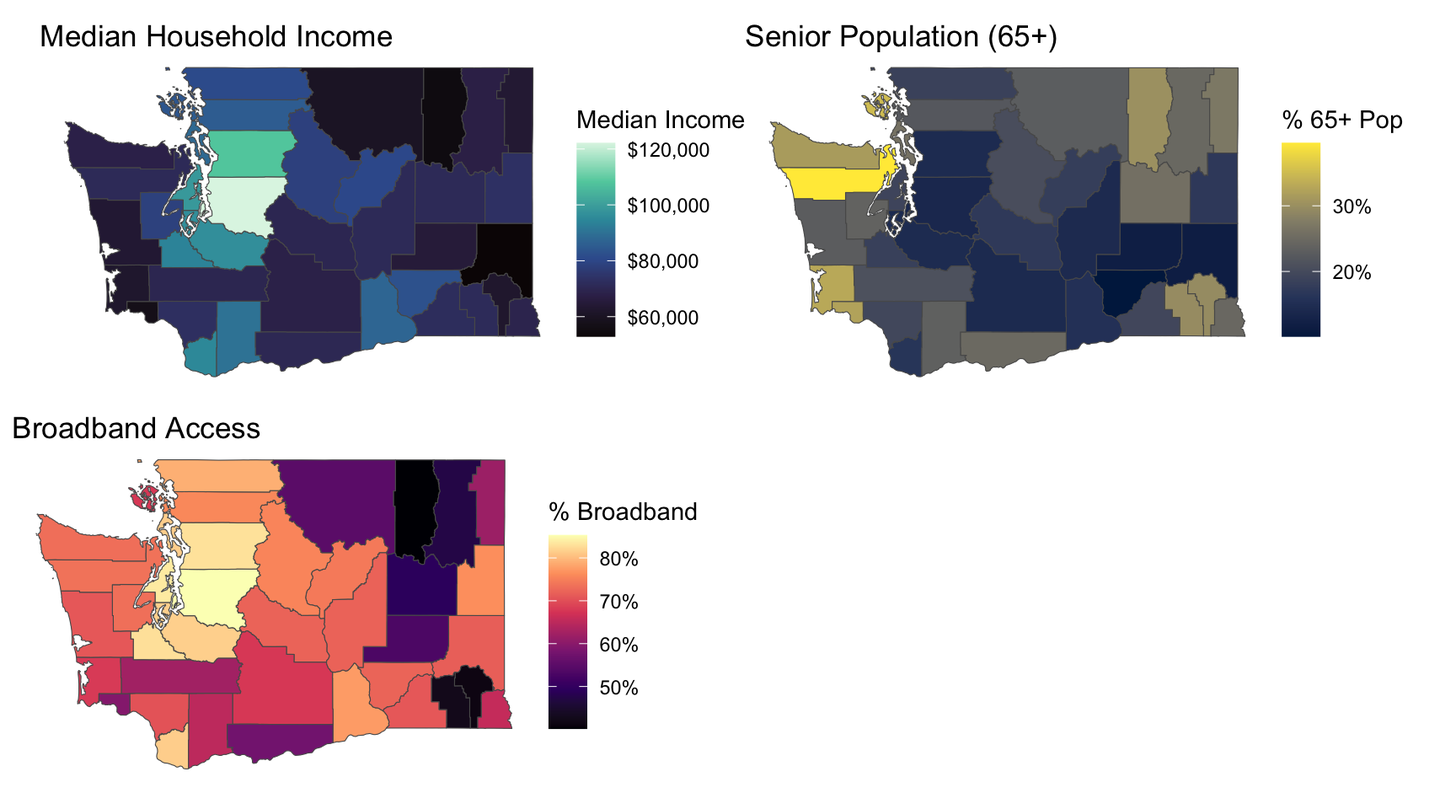
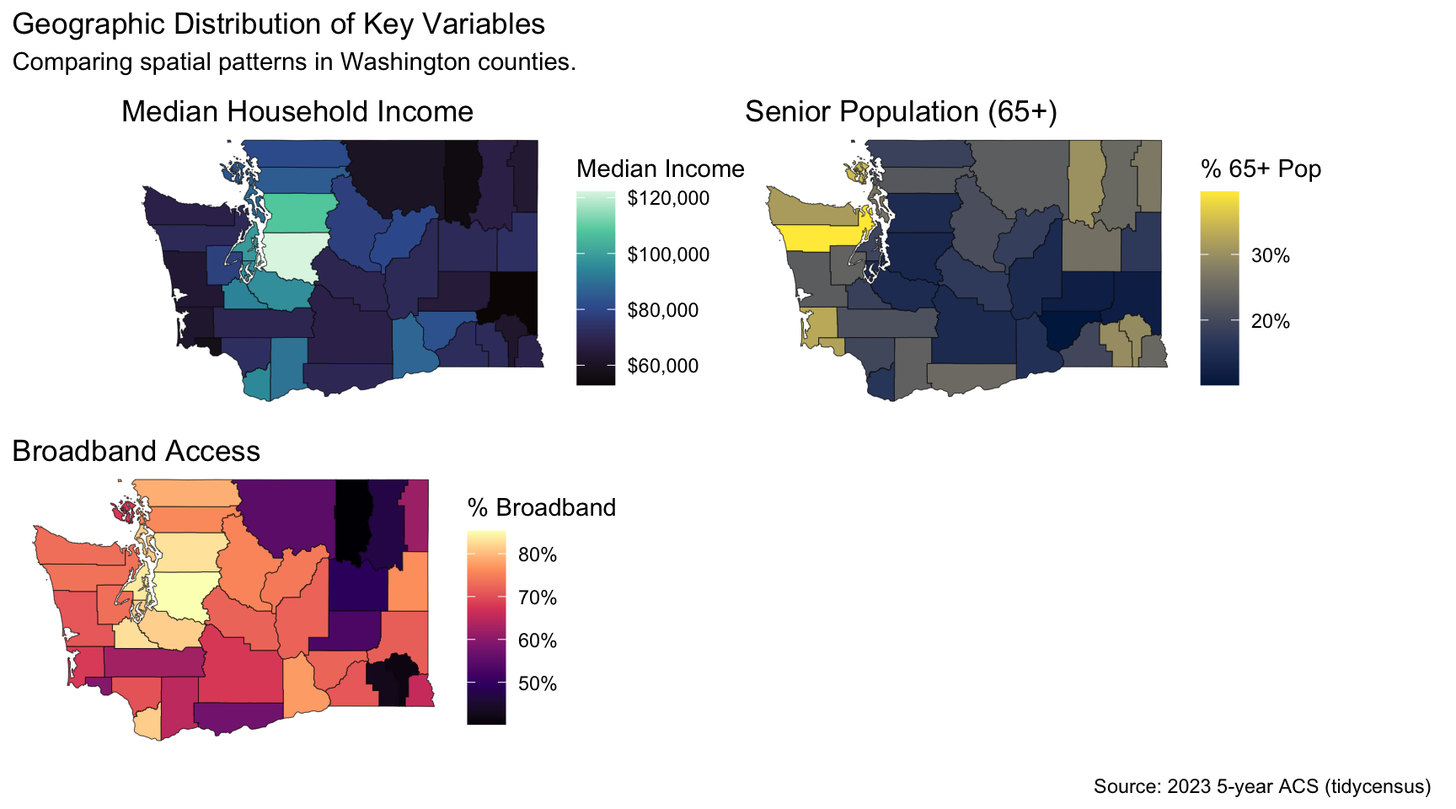
Update to analysis (both parts)

diff --git a/Project2.html b/Project2.html
@@ -6,8 +6,9 @@
 
 <meta name="viewport" content="width=device-width, initial-scale=1.0, user-scalable=yes">
 
+<meta name="author" content="Oliver Brown">
 
-<title>Project2</title>
+<title>Statistical Programming Paradigms: Project 2</title>
 <style>
 code{white-space: pre-wrap;}
 span.smallcaps{font-variant: small-caps;}
@@ -82,13 +83,20 @@ pre > code.sourceCode > span > a:first-child::before { text-decoration: underlin
 
 <header id="title-block-header" class="quarto-title-block default">
 <div class="quarto-title">
-<h1 class="title">Project2</h1>
+<h1 class="title">Statistical Programming Paradigms: Project 2</h1>
+<p class="subtitle lead">View the <a href="https://github.com/OliverBrown16/Biostat777-Project2">Project Repo</a></p>
 </div>
 
 
 
 <div class="quarto-title-meta">
 
+    <div>
+    <div class="quarto-title-meta-heading">Author</div>
+    <div class="quarto-title-meta-contents">
+             <p>Oliver Brown </p>
+          </div>
+  </div>
     
   
     
@@ -111,6 +119,10 @@ pre > code.sourceCode > span > a:first-child::before { text-decoration: underlin
 <li><p>A pair of side by side boxplots. This will involve binning counties into quartiles (Lowest to Highest) based on their median income and senior population. This plot will help compare the median and distribution of broadband access across these distinct groups, showing how moving from the lowest to highest group for each variable impacts access.</p></li>
 <li><p>A set of three maps to visualize the geographic distribution of each key variable (broadband access, senior population, and median income) side-by-side. This will help identify if the spatial pattern of broadband access more closely matches the pattern of income or age.</p></li>
 </ol>
+</section>
+<section id="data-extraction-and-cleaning" class="level2">
+<h2 class="anchored" data-anchor-id="data-extraction-and-cleaning">Data Extraction and Cleaning</h2>
+<p>The analysis is set to run for Washington State using data from the 2023 5-year American Community Survey (ACS), since this is the most recent available data.</p>
 <div class="cell">
 <div class="code-copy-outer-scaffold"><div class="sourceCode cell-code" id="cb1"><pre class="sourceCode r code-with-copy"><code class="sourceCode r"><span id="cb1-1"><a href="#cb1-1" aria-hidden="true" tabindex="-1"></a>state_abbr <span class="ot">&lt;-</span> <span class="st">"WA"</span></span>
 <span id="cb1-2"><a href="#cb1-2" aria-hidden="true" tabindex="-1"></a>target_year <span class="ot">&lt;-</span> <span class="dv">2023</span></span>
@@ -161,7 +173,7 @@ Geodetic CRS:  NAD83
 6 MULTIPOLYGON (((-123.371 46...</code></pre>
 </div>
 </div>
-<p>To get the total 65+ population, <strong>purrr::map_chr()</strong> is used to programmatically generate the list of all male and female senior age bracket variable IDs. The data is then saved locally as an .rds file to avoid repeat API calls.</p>
+<p>To get the total 65+ population, <strong>map_chr()</strong> is used to programmatically generate the list of all male and female senior age bracket variable IDs. The data is then saved locally as an .rds file to avoid repeat API calls.</p>
 <div class="cell">
 <div class="code-copy-outer-scaffold"><div class="sourceCode cell-code" id="cb4"><pre class="sourceCode r code-with-copy"><code class="sourceCode r"><span id="cb4-1"><a href="#cb4-1" aria-hidden="true" tabindex="-1"></a>age_vars_65plus_male <span class="ot">&lt;-</span> <span class="fu">map_chr</span>(<span class="dv">20</span><span class="sc">:</span><span class="dv">25</span>, <span class="sc">~</span> <span class="fu">paste0</span>(<span class="st">"B01001_0"</span>, .x))</span>
 <span id="cb4-2"><a href="#cb4-2" aria-hidden="true" tabindex="-1"></a>age_vars_65plus_female <span class="ot">&lt;-</span> <span class="fu">map_chr</span>(<span class="dv">44</span><span class="sc">:</span><span class="dv">49</span>, <span class="sc">~</span> <span class="fu">paste0</span>(<span class="st">"B01001_0"</span>, .x))</span>
@@ -235,7 +247,7 @@ Geodetic CRS:  NAD83
 6 53011 Clark County, Washington   median_income    94948  1484</code></pre>
 </div>
 </div>
-<p>We then clean and merge the three raw datasets. The internet data is pivoted wide, the age data is summarized to sum all 65+ brackets, and percentages are calculated for both. Finally, the three clean data frames are put into a list and joined together using <strong>purrr::reduce()</strong>.</p>
+<p>We then clean and merge the three raw datasets. The internet data is pivoted wide, the age data is summarized to sum all 65+ brackets, and percentages are calculated for both. Finally, the three clean data frames are put into a list and joined together using <strong>reduce()</strong>.</p>
 <div class="cell">
 <div class="code-copy-outer-scaffold"><div class="sourceCode cell-code" id="cb8"><pre class="sourceCode r code-with-copy"><code class="sourceCode r"><span id="cb8-1"><a href="#cb8-1" aria-hidden="true" tabindex="-1"></a>wa_internet_clean <span class="ot">&lt;-</span> wa_internet_raw <span class="sc">%&gt;%</span></span>
 <span id="cb8-2"><a href="#cb8-2" aria-hidden="true" tabindex="-1"></a>  <span class="fu">select</span>(GEOID, NAME, variable, estimate, geometry) <span class="sc">%&gt;%</span></span>
@@ -271,6 +283,9 @@ Geodetic CRS:  NAD83
 <span id="cb8-32"><a href="#cb8-32" aria-hidden="true" tabindex="-1"></a></span>
 <span id="cb8-33"><a href="#cb8-33" aria-hidden="true" tabindex="-1"></a><span class="fu">head</span>(final_data)</span></code></pre></div><button title="Copy to Clipboard" class="code-copy-button"><i class="bi"></i></button></div>
 </div>
+</section>
+<section id="visualizations" class="level2">
+<h2 class="anchored" data-anchor-id="visualizations">Visualizations:</h2>
 <section id="visualization-1-side-by-side-scatter-plots" class="level3">
 <h3 class="anchored" data-anchor-id="visualization-1-side-by-side-scatter-plots">Visualization 1: Side-by-Side Scatter Plots</h3>
 <div class="cell">
@@ -302,7 +317,7 @@ Geodetic CRS:  NAD83
 <span id="cb9-26"><a href="#cb9-26" aria-hidden="true" tabindex="-1"></a>  ) <span class="sc">+</span></span>
 <span id="cb9-27"><a href="#cb9-27" aria-hidden="true" tabindex="-1"></a>  <span class="fu">theme_minimal</span>()</span>
 <span id="cb9-28"><a href="#cb9-28" aria-hidden="true" tabindex="-1"></a></span>
-<span id="cb9-29"><a href="#cb9-29" aria-hidden="true" tabindex="-1"></a>plot_income <span class="sc">+</span> plot_age</span></code></pre></div><button title="Copy to Clipboard" class="code-copy-button"><i class="bi"></i></button></div>
+<span id="cb9-29"><a href="#cb9-29" aria-hidden="true" tabindex="-1"></a>(plot_income <span class="sc">+</span> plot_age) <span class="sc">+</span> <span class="fu">plot_annotation</span>(<span class="at">caption =</span> <span class="st">"Source: 2023 5-year ACS (tidycensus)"</span>)</span></code></pre></div><button title="Copy to Clipboard" class="code-copy-button"><i class="bi"></i></button></div>
 <div class="cell-output-display">
 <div>
 <figure class="figure">
@@ -330,23 +345,25 @@ Geodetic CRS:  NAD83
 <span id="cb10-12"><a href="#cb10-12" aria-hidden="true" tabindex="-1"></a>  <span class="fu">scale_y_continuous</span>(<span class="at">labels =</span> scales<span class="sc">::</span><span class="fu">percent_format</span>()) <span class="sc">+</span></span>
 <span id="cb10-13"><a href="#cb10-13" aria-hidden="true" tabindex="-1"></a>  <span class="fu">labs</span>(</span>
 <span id="cb10-14"><a href="#cb10-14" aria-hidden="true" tabindex="-1"></a>    <span class="at">title =</span> <span class="st">"Broadband Access by Income Quartile"</span>,</span>
-<span id="cb10-15"><a href="#cb10-15" aria-hidden="true" tabindex="-1"></a>    <span class="at">x =</span> <span class="st">"Median Income Quartile"</span>,</span>
-<span id="cb10-16"><a href="#cb10-16" aria-hidden="true" tabindex="-1"></a>    <span class="at">y =</span> <span class="st">"Percent with Broadband"</span></span>
-<span id="cb10-17"><a href="#cb10-17" aria-hidden="true" tabindex="-1"></a>  ) <span class="sc">+</span></span>
-<span id="cb10-18"><a href="#cb10-18" aria-hidden="true" tabindex="-1"></a>  <span class="fu">theme_minimal</span>()</span>
-<span id="cb10-19"><a href="#cb10-19" aria-hidden="true" tabindex="-1"></a></span>
-<span id="cb10-20"><a href="#cb10-20" aria-hidden="true" tabindex="-1"></a>plot_box_age <span class="ot">&lt;-</span> <span class="fu">ggplot</span>(data_with_bins, <span class="fu">aes</span>(<span class="at">x =</span> age_quartile, <span class="at">y =</span> pct_broadband)) <span class="sc">+</span></span>
-<span id="cb10-21"><a href="#cb10-21" aria-hidden="true" tabindex="-1"></a>  <span class="fu">geom_boxplot</span>(<span class="fu">aes</span>(<span class="at">fill =</span> age_quartile), <span class="at">show.legend =</span> <span class="cn">FALSE</span>) <span class="sc">+</span></span>
-<span id="cb10-22"><a href="#cb10-22" aria-hidden="true" tabindex="-1"></a>  <span class="fu">geom_point</span>(<span class="at">alpha =</span> <span class="fl">0.4</span>) <span class="sc">+</span> </span>
-<span id="cb10-23"><a href="#cb10-23" aria-hidden="true" tabindex="-1"></a>  <span class="fu">scale_y_continuous</span>(<span class="at">labels =</span> scales<span class="sc">::</span><span class="fu">percent_format</span>()) <span class="sc">+</span></span>
-<span id="cb10-24"><a href="#cb10-24" aria-hidden="true" tabindex="-1"></a>  <span class="fu">labs</span>(</span>
-<span id="cb10-25"><a href="#cb10-25" aria-hidden="true" tabindex="-1"></a>    <span class="at">title =</span> <span class="st">"Broadband Access by Senior (65+) Pop. Quartile"</span>,</span>
-<span id="cb10-26"><a href="#cb10-26" aria-hidden="true" tabindex="-1"></a>    <span class="at">x =</span> <span class="st">"Senior Population Quartile"</span>,</span>
-<span id="cb10-27"><a href="#cb10-27" aria-hidden="true" tabindex="-1"></a>    <span class="at">y =</span> <span class="st">""</span></span>
-<span id="cb10-28"><a href="#cb10-28" aria-hidden="true" tabindex="-1"></a>  ) <span class="sc">+</span></span>
-<span id="cb10-29"><a href="#cb10-29" aria-hidden="true" tabindex="-1"></a>  <span class="fu">theme_minimal</span>()</span>
-<span id="cb10-30"><a href="#cb10-30" aria-hidden="true" tabindex="-1"></a></span>
-<span id="cb10-31"><a href="#cb10-31" aria-hidden="true" tabindex="-1"></a>plot_box_income <span class="sc">+</span> plot_box_age</span></code></pre></div><button title="Copy to Clipboard" class="code-copy-button"><i class="bi"></i></button></div>
+<span id="cb10-15"><a href="#cb10-15" aria-hidden="true" tabindex="-1"></a>    <span class="at">subtitle =</span> <span class="st">"Counties grouped into four equal-sized bins"</span>,</span>
+<span id="cb10-16"><a href="#cb10-16" aria-hidden="true" tabindex="-1"></a>    <span class="at">x =</span> <span class="st">"Median Income Quartile"</span>,</span>
+<span id="cb10-17"><a href="#cb10-17" aria-hidden="true" tabindex="-1"></a>    <span class="at">y =</span> <span class="st">"Percent with Broadband"</span></span>
+<span id="cb10-18"><a href="#cb10-18" aria-hidden="true" tabindex="-1"></a>  ) <span class="sc">+</span></span>
+<span id="cb10-19"><a href="#cb10-19" aria-hidden="true" tabindex="-1"></a>  <span class="fu">theme_minimal</span>()</span>
+<span id="cb10-20"><a href="#cb10-20" aria-hidden="true" tabindex="-1"></a></span>
+<span id="cb10-21"><a href="#cb10-21" aria-hidden="true" tabindex="-1"></a>plot_box_age <span class="ot">&lt;-</span> <span class="fu">ggplot</span>(data_with_bins, <span class="fu">aes</span>(<span class="at">x =</span> age_quartile, <span class="at">y =</span> pct_broadband)) <span class="sc">+</span></span>
+<span id="cb10-22"><a href="#cb10-22" aria-hidden="true" tabindex="-1"></a>  <span class="fu">geom_boxplot</span>(<span class="fu">aes</span>(<span class="at">fill =</span> age_quartile), <span class="at">show.legend =</span> <span class="cn">FALSE</span>) <span class="sc">+</span></span>
+<span id="cb10-23"><a href="#cb10-23" aria-hidden="true" tabindex="-1"></a>  <span class="fu">geom_point</span>(<span class="at">alpha =</span> <span class="fl">0.4</span>) <span class="sc">+</span> </span>
+<span id="cb10-24"><a href="#cb10-24" aria-hidden="true" tabindex="-1"></a>  <span class="fu">scale_y_continuous</span>(<span class="at">labels =</span> scales<span class="sc">::</span><span class="fu">percent_format</span>()) <span class="sc">+</span></span>
+<span id="cb10-25"><a href="#cb10-25" aria-hidden="true" tabindex="-1"></a>  <span class="fu">labs</span>(</span>
+<span id="cb10-26"><a href="#cb10-26" aria-hidden="true" tabindex="-1"></a>    <span class="at">title =</span> <span class="st">"Broadband Access by Senior (65+) Pop. Quartile"</span>,</span>
+<span id="cb10-27"><a href="#cb10-27" aria-hidden="true" tabindex="-1"></a>    <span class="at">subtitle =</span> <span class="st">"Counties grouped into four equal-sized bins"</span>,</span>
+<span id="cb10-28"><a href="#cb10-28" aria-hidden="true" tabindex="-1"></a>    <span class="at">x =</span> <span class="st">"Senior Population Quartile"</span>,</span>
+<span id="cb10-29"><a href="#cb10-29" aria-hidden="true" tabindex="-1"></a>    <span class="at">y =</span> <span class="st">""</span></span>
+<span id="cb10-30"><a href="#cb10-30" aria-hidden="true" tabindex="-1"></a>  ) <span class="sc">+</span></span>
+<span id="cb10-31"><a href="#cb10-31" aria-hidden="true" tabindex="-1"></a>  <span class="fu">theme_minimal</span>()</span>
+<span id="cb10-32"><a href="#cb10-32" aria-hidden="true" tabindex="-1"></a></span>
+<span id="cb10-33"><a href="#cb10-33" aria-hidden="true" tabindex="-1"></a>(plot_box_income <span class="sc">+</span> plot_box_age) <span class="sc">+</span> <span class="fu">plot_annotation</span>(<span class="at">caption =</span> <span class="st">"Source: 2023 5-year ACS (tidycensus)"</span>)</span></code></pre></div><button title="Copy to Clipboard" class="code-copy-button"><i class="bi"></i></button></div>
 <div class="cell-output-display">
 <div>
 <figure class="figure">
@@ -378,7 +395,11 @@ Geodetic CRS:  NAD83
 <span id="cb11-16"><a href="#cb11-16" aria-hidden="true" tabindex="-1"></a>  <span class="fu">labs</span>(<span class="at">title =</span> <span class="st">"Median Household Income"</span>, <span class="at">fill =</span> <span class="st">"Median Income"</span>) <span class="sc">+</span></span>
 <span id="cb11-17"><a href="#cb11-17" aria-hidden="true" tabindex="-1"></a>  <span class="fu">theme_void</span>()</span>
 <span id="cb11-18"><a href="#cb11-18" aria-hidden="true" tabindex="-1"></a></span>
-<span id="cb11-19"><a href="#cb11-19" aria-hidden="true" tabindex="-1"></a>(map_income <span class="sc">+</span> map_65plus) <span class="sc">/</span> (map_broadband <span class="sc">+</span> <span class="fu">plot_spacer</span>())</span></code></pre></div><button title="Copy to Clipboard" class="code-copy-button"><i class="bi"></i></button></div>
+<span id="cb11-19"><a href="#cb11-19" aria-hidden="true" tabindex="-1"></a>(map_income <span class="sc">+</span> map_65plus) <span class="sc">/</span> (map_broadband <span class="sc">+</span> <span class="fu">plot_spacer</span>()) <span class="sc">+</span> </span>
+<span id="cb11-20"><a href="#cb11-20" aria-hidden="true" tabindex="-1"></a>  <span class="fu">plot_annotation</span>(</span>
+<span id="cb11-21"><a href="#cb11-21" aria-hidden="true" tabindex="-1"></a>    <span class="at">title =</span> <span class="st">"Geographic Distribution of Key Variables"</span>,</span>
+<span id="cb11-22"><a href="#cb11-22" aria-hidden="true" tabindex="-1"></a>    <span class="at">subtitle =</span> <span class="st">"Comparing spatial patterns in Washington counties."</span>,</span>
+<span id="cb11-23"><a href="#cb11-23" aria-hidden="true" tabindex="-1"></a>    <span class="at">caption =</span> <span class="st">"Source: 2023 5-year ACS (tidycensus)"</span>)</span></code></pre></div><button title="Copy to Clipboard" class="code-copy-button"><i class="bi"></i></button></div>
 <div class="cell-output-display">
 <div>
 <figure class="figure">
@@ -390,54 +411,61 @@ Geodetic CRS:  NAD83
 <p>This final visualization uses geom_sfto create three maps showing the geographic distribution of each key variable. One map is made for broadband access, one for median income, and one for the senior population.</p>
 </section>
 </section>
+<section id="analysis" class="level2">
+<h2 class="anchored" data-anchor-id="analysis">Analysis:</h2>
+<p>This analysis investigates if broadband access in Washington State counties is better explained by population age or affordability. Data was sourced from the U.S. Census Bureau’s 2023 5-year American Community Survey (ACS) via the tidycensus API. Data for median household income, total population, and population 65+ were extracted. These were processed to create three key variables: percentage of population 65+, median household income, and percentage of households with broadband. The variables were then joined and analyzed for correlation and geographic distribution.</p>
+<p>The analysis reveals that median household income is a significantly stronger predictor of broadband access than the county’s senior (65+) population. A strong, positive linear correlation exists between median income and broadband access rates. Conversely, the relationship between the senior population and broadband access was weaker and less conclusive. Geographic analysis confirmed this, as the spatial map of broadband access closely mirrored the map of median income, but not the map of the senior population.</p>
+<p>This analysis has several limitations. First, the county-level data is subject to the ecological fallacy, meaning results cannot be assumed to apply to individuals. Second, the analysis does not control for the key confounding variable of infrastructure availability. Physical infrastructure, which often correlates with income, was not included. Finally, the ACS data provides estimates, and the “broadband” variable lacks details on connection speed or quality.</p>
+</section>
 </section>
 <section id="part-2" class="level1">
 <h1>Part 2</h1>
+<p>This report details the process of scraping, cleaning, and visualizing the 2025 Seattle Mariners season game log from Wikipedia. The objective was to create a time-series visualization tracking the team’s performance relative to a .500 record (their win-loss differential) as the season progressed. This analysis uses the rvest package for web scraping and dplyr and ggplot2 for data manipulation and visualization.</p>
+</section>
+<section id="extracting-and-cleaning-data" class="level1">
+<h1>Extracting and Cleaning Data</h1>
+<p>The first step was to collect the game-by-game data. The data for the 2025 season is hosted on Wikipedia and split into multiple HTML tables (one for each month). The rvest package was used to read the page’s HTML. A key challenge was that the game logs were not in a single table. By inspecting the page, I identified that the relevant tables were the 2nd through 7th instances of the .wikitable class. The code below selects these specific tables, then uses the <strong>map_dfr()</strong> function to iterate over them, extract the data from each, and bind them all into a single raw data frame. This raw data was then saved as an .rds file for reproducibility.</p>
 <div class="cell">
-<div class="code-copy-outer-scaffold"><div class="sourceCode cell-code" id="cb12"><pre class="sourceCode r code-with-copy"><code class="sourceCode r"><span id="cb12-1"><a href="#cb12-1" aria-hidden="true" tabindex="-1"></a><span class="fu">library</span>(rvest)    </span>
-<span id="cb12-2"><a href="#cb12-2" aria-hidden="true" tabindex="-1"></a><span class="fu">library</span>(ggrepel)</span>
-<span id="cb12-3"><a href="#cb12-3" aria-hidden="true" tabindex="-1"></a><span class="fu">library</span>(readr)</span></code></pre></div><button title="Copy to Clipboard" class="code-copy-button"><i class="bi"></i></button></div>
+<div class="code-copy-outer-scaffold"><div class="sourceCode cell-code" id="cb12"><pre class="sourceCode r code-with-copy"><code class="sourceCode r"><span id="cb12-1"><a href="#cb12-1" aria-hidden="true" tabindex="-1"></a>url <span class="ot">&lt;-</span> <span class="st">"https://en.wikipedia.org/wiki/2025_Seattle_Mariners_season"</span></span>
+<span id="cb12-2"><a href="#cb12-2" aria-hidden="true" tabindex="-1"></a></span>
+<span id="cb12-3"><a href="#cb12-3" aria-hidden="true" tabindex="-1"></a>m_page <span class="ot">&lt;-</span> <span class="fu">read_html</span>(url)</span>
+<span id="cb12-4"><a href="#cb12-4" aria-hidden="true" tabindex="-1"></a></span>
+<span id="cb12-5"><a href="#cb12-5" aria-hidden="true" tabindex="-1"></a>game_log_raw <span class="ot">&lt;-</span> m_page <span class="sc">%&gt;%</span></span>
+<span id="cb12-6"><a href="#cb12-6" aria-hidden="true" tabindex="-1"></a>  <span class="fu">html_elements</span>(<span class="st">"table.wikitable"</span>) <span class="sc">%&gt;%</span></span>
+<span id="cb12-7"><a href="#cb12-7" aria-hidden="true" tabindex="-1"></a>  .[<span class="fu">c</span>(<span class="dv">2</span>, <span class="dv">3</span>, <span class="dv">4</span>, <span class="dv">5</span>, <span class="dv">6</span>, <span class="dv">7</span>)] <span class="sc">%&gt;%</span></span>
+<span id="cb12-8"><a href="#cb12-8" aria-hidden="true" tabindex="-1"></a>  purrr<span class="sc">::</span><span class="fu">map_dfr</span>(<span class="sc">~</span> .x <span class="sc">%&gt;%</span> </span>
+<span id="cb12-9"><a href="#cb12-9" aria-hidden="true" tabindex="-1"></a>                   <span class="fu">html_table</span>(<span class="at">header =</span> <span class="cn">FALSE</span>, <span class="at">fill =</span> <span class="cn">TRUE</span>) <span class="sc">%&gt;%</span></span>
+<span id="cb12-10"><a href="#cb12-10" aria-hidden="true" tabindex="-1"></a>                   <span class="fu">slice</span>(<span class="sc">-</span><span class="dv">1</span>)</span>
+<span id="cb12-11"><a href="#cb12-11" aria-hidden="true" tabindex="-1"></a>                 )</span>
+<span id="cb12-12"><a href="#cb12-12" aria-hidden="true" tabindex="-1"></a></span>
+<span id="cb12-13"><a href="#cb12-13" aria-hidden="true" tabindex="-1"></a>mariners_file_path <span class="ot">&lt;-</span> <span class="st">"data/mariners_gamelog_raw.rds"</span></span>
+<span id="cb12-14"><a href="#cb12-14" aria-hidden="true" tabindex="-1"></a><span class="fu">write_rds</span>(game_log_raw, mariners_file_path)</span></code></pre></div><button title="Copy to Clipboard" class="code-copy-button"><i class="bi"></i></button></div>
 </div>
+<p>The raw scraped data was not in an analyzable format. The next step was to clean and transform it using dplyr and tidyr. The script reads the saved .rds file, then filters for rows that represent completed games (identified by the “–” in the record column). It then uses transmute to select only the game number and the record string (e.g., “10–5”). The separate function splits this record into wins and losses columns. Finally, parse_number converts these text-based values into numeric data types. A new variable, win_differential, was calculated (Wins - Losses) to serve as the primary metric. A row for “Game 0” was added to ensure the visualization starts at the origin.</p>
 <div class="cell">
-<div class="code-copy-outer-scaffold"><div class="sourceCode cell-code" id="cb13"><pre class="sourceCode r code-with-copy"><code class="sourceCode r"><span id="cb13-1"><a href="#cb13-1" aria-hidden="true" tabindex="-1"></a>url <span class="ot">&lt;-</span> <span class="st">"https://en.wikipedia.org/wiki/2025_Seattle_Mariners_season"</span></span>
-<span id="cb13-2"><a href="#cb13-2" aria-hidden="true" tabindex="-1"></a></span>
-<span id="cb13-3"><a href="#cb13-3" aria-hidden="true" tabindex="-1"></a>m_page <span class="ot">&lt;-</span> <span class="fu">read_html</span>(url)</span>
-<span id="cb13-4"><a href="#cb13-4" aria-hidden="true" tabindex="-1"></a></span>
-<span id="cb13-5"><a href="#cb13-5" aria-hidden="true" tabindex="-1"></a>game_log_raw <span class="ot">&lt;-</span> m_page <span class="sc">%&gt;%</span></span>
-<span id="cb13-6"><a href="#cb13-6" aria-hidden="true" tabindex="-1"></a>  <span class="fu">html_elements</span>(<span class="st">"table.wikitable"</span>) <span class="sc">%&gt;%</span></span>
-<span id="cb13-7"><a href="#cb13-7" aria-hidden="true" tabindex="-1"></a>  .[<span class="fu">c</span>(<span class="dv">2</span>, <span class="dv">3</span>, <span class="dv">4</span>, <span class="dv">5</span>, <span class="dv">6</span>, <span class="dv">7</span>)] <span class="sc">%&gt;%</span></span>
-<span id="cb13-8"><a href="#cb13-8" aria-hidden="true" tabindex="-1"></a>  purrr<span class="sc">::</span><span class="fu">map_dfr</span>(<span class="sc">~</span> .x <span class="sc">%&gt;%</span> </span>
-<span id="cb13-9"><a href="#cb13-9" aria-hidden="true" tabindex="-1"></a>                   <span class="fu">html_table</span>(<span class="at">header =</span> <span class="cn">FALSE</span>, <span class="at">fill =</span> <span class="cn">TRUE</span>) <span class="sc">%&gt;%</span></span>
-<span id="cb13-10"><a href="#cb13-10" aria-hidden="true" tabindex="-1"></a>                   <span class="fu">slice</span>(<span class="sc">-</span><span class="dv">1</span>)</span>
-<span id="cb13-11"><a href="#cb13-11" aria-hidden="true" tabindex="-1"></a>                 )</span>
-<span id="cb13-12"><a href="#cb13-12" aria-hidden="true" tabindex="-1"></a></span>
-<span id="cb13-13"><a href="#cb13-13" aria-hidden="true" tabindex="-1"></a>mariners_file_path <span class="ot">&lt;-</span> <span class="st">"data/mariners_gamelog_raw.rds"</span></span>
-<span id="cb13-14"><a href="#cb13-14" aria-hidden="true" tabindex="-1"></a><span class="fu">write_rds</span>(game_log_raw, mariners_file_path)</span></code></pre></div><button title="Copy to Clipboard" class="code-copy-button"><i class="bi"></i></button></div>
-</div>
-<div class="cell">
-<div class="code-copy-outer-scaffold"><div class="sourceCode cell-code" id="cb14"><pre class="sourceCode r code-with-copy"><code class="sourceCode r"><span id="cb14-1"><a href="#cb14-1" aria-hidden="true" tabindex="-1"></a><span class="co"># Read in our saved data</span></span>
-<span id="cb14-2"><a href="#cb14-2" aria-hidden="true" tabindex="-1"></a>game_log_clean <span class="ot">&lt;-</span> <span class="fu">read_rds</span>(<span class="st">"data/mariners_gamelog_raw.rds"</span>) <span class="sc">%&gt;%</span></span>
-<span id="cb14-3"><a href="#cb14-3" aria-hidden="true" tabindex="-1"></a>  <span class="fu">as_tibble</span>() <span class="sc">%&gt;%</span></span>
-<span id="cb14-4"><a href="#cb14-4" aria-hidden="true" tabindex="-1"></a>  </span>
-<span id="cb14-5"><a href="#cb14-5" aria-hidden="true" tabindex="-1"></a>  <span class="fu">filter</span>(<span class="fu">str_detect</span>(X9, <span class="st">"–"</span>)) <span class="sc">%&gt;%</span></span>
-<span id="cb14-6"><a href="#cb14-6" aria-hidden="true" tabindex="-1"></a>  </span>
-<span id="cb14-7"><a href="#cb14-7" aria-hidden="true" tabindex="-1"></a>  <span class="fu">transmute</span>(</span>
-<span id="cb14-8"><a href="#cb14-8" aria-hidden="true" tabindex="-1"></a>    <span class="at">game_number =</span> <span class="fu">parse_number</span>(X1),</span>
-<span id="cb14-9"><a href="#cb14-9" aria-hidden="true" tabindex="-1"></a>    <span class="at">record_str =</span> X9</span>
-<span id="cb14-10"><a href="#cb14-10" aria-hidden="true" tabindex="-1"></a>  ) <span class="sc">%&gt;%</span></span>
-<span id="cb14-11"><a href="#cb14-11" aria-hidden="true" tabindex="-1"></a>  </span>
-<span id="cb14-12"><a href="#cb14-12" aria-hidden="true" tabindex="-1"></a>  <span class="fu">separate</span>(record_str, <span class="at">into =</span> <span class="fu">c</span>(<span class="st">"wins_str"</span>, <span class="st">"losses_str"</span>), <span class="at">sep =</span> <span class="st">"–"</span>) <span class="sc">%&gt;%</span></span>
-<span id="cb14-13"><a href="#cb14-13" aria-hidden="true" tabindex="-1"></a></span>
-<span id="cb14-14"><a href="#cb14-14" aria-hidden="true" tabindex="-1"></a>  <span class="fu">transmute</span>(</span>
-<span id="cb14-15"><a href="#cb14-15" aria-hidden="true" tabindex="-1"></a>    <span class="at">game_number =</span> game_number,</span>
-<span id="cb14-16"><a href="#cb14-16" aria-hidden="true" tabindex="-1"></a>    <span class="at">wins =</span> <span class="fu">parse_number</span>(wins_str),</span>
-<span id="cb14-17"><a href="#cb14-17" aria-hidden="true" tabindex="-1"></a>    <span class="at">losses =</span> <span class="fu">parse_number</span>(losses_str),</span>
-<span id="cb14-18"><a href="#cb14-18" aria-hidden="true" tabindex="-1"></a>    <span class="at">win_differential =</span> wins <span class="sc">-</span> losses</span>
-<span id="cb14-19"><a href="#cb14-19" aria-hidden="true" tabindex="-1"></a>  ) <span class="sc">%&gt;%</span></span>
-<span id="cb14-20"><a href="#cb14-20" aria-hidden="true" tabindex="-1"></a>  <span class="fu">add_row</span>(<span class="at">game_number =</span> <span class="dv">0</span>, <span class="at">wins =</span> <span class="dv">0</span>, <span class="at">losses =</span> <span class="dv">0</span>, <span class="at">win_differential =</span> <span class="dv">0</span>) <span class="sc">%&gt;%</span></span>
-<span id="cb14-21"><a href="#cb14-21" aria-hidden="true" tabindex="-1"></a>  <span class="fu">arrange</span>(game_number)</span>
-<span id="cb14-22"><a href="#cb14-22" aria-hidden="true" tabindex="-1"></a></span>
-<span id="cb14-23"><a href="#cb14-23" aria-hidden="true" tabindex="-1"></a><span class="fu">tail</span>(game_log_clean)</span></code></pre></div><button title="Copy to Clipboard" class="code-copy-button"><i class="bi"></i></button></div>
+<div class="code-copy-outer-scaffold"><div class="sourceCode cell-code" id="cb13"><pre class="sourceCode r code-with-copy"><code class="sourceCode r"><span id="cb13-1"><a href="#cb13-1" aria-hidden="true" tabindex="-1"></a><span class="co"># Read in our saved data</span></span>
+<span id="cb13-2"><a href="#cb13-2" aria-hidden="true" tabindex="-1"></a>game_log_clean <span class="ot">&lt;-</span> <span class="fu">read_rds</span>(<span class="st">"data/mariners_gamelog_raw.rds"</span>) <span class="sc">%&gt;%</span></span>
+<span id="cb13-3"><a href="#cb13-3" aria-hidden="true" tabindex="-1"></a>  <span class="fu">as_tibble</span>() <span class="sc">%&gt;%</span></span>
+<span id="cb13-4"><a href="#cb13-4" aria-hidden="true" tabindex="-1"></a>  </span>
+<span id="cb13-5"><a href="#cb13-5" aria-hidden="true" tabindex="-1"></a>  <span class="fu">filter</span>(<span class="fu">str_detect</span>(X9, <span class="st">"–"</span>)) <span class="sc">%&gt;%</span></span>
+<span id="cb13-6"><a href="#cb13-6" aria-hidden="true" tabindex="-1"></a>  </span>
+<span id="cb13-7"><a href="#cb13-7" aria-hidden="true" tabindex="-1"></a>  <span class="fu">transmute</span>(</span>
+<span id="cb13-8"><a href="#cb13-8" aria-hidden="true" tabindex="-1"></a>    <span class="at">game_number =</span> <span class="fu">parse_number</span>(X1),</span>
+<span id="cb13-9"><a href="#cb13-9" aria-hidden="true" tabindex="-1"></a>    <span class="at">record_str =</span> X9</span>
+<span id="cb13-10"><a href="#cb13-10" aria-hidden="true" tabindex="-1"></a>  ) <span class="sc">%&gt;%</span></span>
+<span id="cb13-11"><a href="#cb13-11" aria-hidden="true" tabindex="-1"></a>  </span>
+<span id="cb13-12"><a href="#cb13-12" aria-hidden="true" tabindex="-1"></a>  <span class="fu">separate</span>(record_str, <span class="at">into =</span> <span class="fu">c</span>(<span class="st">"wins_str"</span>, <span class="st">"losses_str"</span>), <span class="at">sep =</span> <span class="st">"–"</span>) <span class="sc">%&gt;%</span></span>
+<span id="cb13-13"><a href="#cb13-13" aria-hidden="true" tabindex="-1"></a></span>
+<span id="cb13-14"><a href="#cb13-14" aria-hidden="true" tabindex="-1"></a>  <span class="fu">transmute</span>(</span>
+<span id="cb13-15"><a href="#cb13-15" aria-hidden="true" tabindex="-1"></a>    <span class="at">game_number =</span> game_number,</span>
+<span id="cb13-16"><a href="#cb13-16" aria-hidden="true" tabindex="-1"></a>    <span class="at">wins =</span> <span class="fu">parse_number</span>(wins_str),</span>
+<span id="cb13-17"><a href="#cb13-17" aria-hidden="true" tabindex="-1"></a>    <span class="at">losses =</span> <span class="fu">parse_number</span>(losses_str),</span>
+<span id="cb13-18"><a href="#cb13-18" aria-hidden="true" tabindex="-1"></a>    <span class="at">win_differential =</span> wins <span class="sc">-</span> losses</span>
+<span id="cb13-19"><a href="#cb13-19" aria-hidden="true" tabindex="-1"></a>  ) <span class="sc">%&gt;%</span></span>
+<span id="cb13-20"><a href="#cb13-20" aria-hidden="true" tabindex="-1"></a>  <span class="fu">add_row</span>(<span class="at">game_number =</span> <span class="dv">0</span>, <span class="at">wins =</span> <span class="dv">0</span>, <span class="at">losses =</span> <span class="dv">0</span>, <span class="at">win_differential =</span> <span class="dv">0</span>) <span class="sc">%&gt;%</span></span>
+<span id="cb13-21"><a href="#cb13-21" aria-hidden="true" tabindex="-1"></a>  <span class="fu">arrange</span>(game_number)</span>
+<span id="cb13-22"><a href="#cb13-22" aria-hidden="true" tabindex="-1"></a></span>
+<span id="cb13-23"><a href="#cb13-23" aria-hidden="true" tabindex="-1"></a><span class="fu">tail</span>(game_log_clean)</span></code></pre></div><button title="Copy to Clipboard" class="code-copy-button"><i class="bi"></i></button></div>
 <div class="cell-output cell-output-stdout">
 <pre><code># A tibble: 6 × 4
   game_number  wins losses win_differential
@@ -450,19 +478,22 @@ Geodetic CRS:  NAD83
 6         162    90     72               18</code></pre>
 </div>
 </div>
+<section id="visualization" class="level2">
+<h2 class="anchored" data-anchor-id="visualization">Visualization</h2>
+<p>The final, clean data was plotted using ggplot2 to visualize the season’s trajectory. The resulting line chart tracks the team’s win-loss differential over all 162 games. The dashed horizontal line at y=0 represents a .500 record (where the number of wins equals the number of losses). When the blue line is above this, the team has a winning record; when it’s below, they have a losing record.</p>
 <div class="cell">
-<div class="code-copy-outer-scaffold"><div class="sourceCode cell-code" id="cb16"><pre class="sourceCode r code-with-copy"><code class="sourceCode r"><span id="cb16-1"><a href="#cb16-1" aria-hidden="true" tabindex="-1"></a><span class="fu">ggplot</span>(game_log_clean, <span class="fu">aes</span>(<span class="at">x =</span> game_number, <span class="at">y =</span> win_differential)) <span class="sc">+</span></span>
-<span id="cb16-2"><a href="#cb16-2" aria-hidden="true" tabindex="-1"></a>  <span class="fu">geom_hline</span>(<span class="at">yintercept =</span> <span class="dv">0</span>, <span class="at">linetype =</span> <span class="st">"dashed"</span>, <span class="at">color =</span> <span class="st">"grey"</span>) <span class="sc">+</span></span>
-<span id="cb16-3"><a href="#cb16-3" aria-hidden="true" tabindex="-1"></a>  <span class="fu">geom_line</span>(<span class="at">color =</span> <span class="st">"darkblue"</span>, <span class="at">linewidth =</span> <span class="fl">0.75</span>) <span class="sc">+</span></span>
-<span id="cb16-4"><a href="#cb16-4" aria-hidden="true" tabindex="-1"></a>  <span class="fu">labs</span>(</span>
-<span id="cb16-5"><a href="#cb16-5" aria-hidden="true" tabindex="-1"></a>    <span class="at">title =</span> <span class="st">"Seattle Mariners 2025 Season: Win-Loss Differential"</span>,</span>
-<span id="cb16-6"><a href="#cb16-6" aria-hidden="true" tabindex="-1"></a>    <span class="at">subtitle =</span> <span class="st">"Plot of (Wins - Losses) after each game of the regular season"</span>,</span>
-<span id="cb16-7"><a href="#cb16-7" aria-hidden="true" tabindex="-1"></a>    <span class="at">x =</span> <span class="st">"Game Number"</span>,</span>
-<span id="cb16-8"><a href="#cb16-8" aria-hidden="true" tabindex="-1"></a>    <span class="at">y =</span> <span class="st">"Games Above / Below .500"</span>,</span>
-<span id="cb16-9"><a href="#cb16-9" aria-hidden="true" tabindex="-1"></a>    <span class="at">caption =</span> <span class="st">"Data: Wikipedia '2025 Seattle Mariners season' page"</span></span>
-<span id="cb16-10"><a href="#cb16-10" aria-hidden="true" tabindex="-1"></a>  ) <span class="sc">+</span></span>
-<span id="cb16-11"><a href="#cb16-11" aria-hidden="true" tabindex="-1"></a>  <span class="fu">scale_x_continuous</span>(<span class="at">breaks =</span> <span class="fu">c</span>(<span class="dv">1</span>, <span class="dv">20</span>, <span class="dv">40</span>, <span class="dv">60</span>, <span class="dv">81</span>, <span class="dv">100</span>, <span class="dv">120</span>, <span class="dv">140</span>, <span class="dv">162</span>)) <span class="sc">+</span></span>
-<span id="cb16-12"><a href="#cb16-12" aria-hidden="true" tabindex="-1"></a>  <span class="fu">theme_minimal</span>()</span></code></pre></div><button title="Copy to Clipboard" class="code-copy-button"><i class="bi"></i></button></div>
+<div class="code-copy-outer-scaffold"><div class="sourceCode cell-code" id="cb15"><pre class="sourceCode r code-with-copy"><code class="sourceCode r"><span id="cb15-1"><a href="#cb15-1" aria-hidden="true" tabindex="-1"></a><span class="fu">ggplot</span>(game_log_clean, <span class="fu">aes</span>(<span class="at">x =</span> game_number, <span class="at">y =</span> win_differential)) <span class="sc">+</span></span>
+<span id="cb15-2"><a href="#cb15-2" aria-hidden="true" tabindex="-1"></a>  <span class="fu">geom_hline</span>(<span class="at">yintercept =</span> <span class="dv">0</span>, <span class="at">linetype =</span> <span class="st">"dashed"</span>, <span class="at">color =</span> <span class="st">"grey"</span>) <span class="sc">+</span></span>
+<span id="cb15-3"><a href="#cb15-3" aria-hidden="true" tabindex="-1"></a>  <span class="fu">geom_line</span>(<span class="at">color =</span> <span class="st">"darkblue"</span>, <span class="at">linewidth =</span> <span class="fl">0.75</span>) <span class="sc">+</span></span>
+<span id="cb15-4"><a href="#cb15-4" aria-hidden="true" tabindex="-1"></a>  <span class="fu">labs</span>(</span>
+<span id="cb15-5"><a href="#cb15-5" aria-hidden="true" tabindex="-1"></a>    <span class="at">title =</span> <span class="st">"Seattle Mariners 2025 Season: Win-Loss Differential"</span>,</span>
+<span id="cb15-6"><a href="#cb15-6" aria-hidden="true" tabindex="-1"></a>    <span class="at">subtitle =</span> <span class="st">"Plot of (Wins - Losses) after each game of the regular season"</span>,</span>
+<span id="cb15-7"><a href="#cb15-7" aria-hidden="true" tabindex="-1"></a>    <span class="at">x =</span> <span class="st">"Game Number"</span>,</span>
+<span id="cb15-8"><a href="#cb15-8" aria-hidden="true" tabindex="-1"></a>    <span class="at">y =</span> <span class="st">"Games Above / Below .500"</span>,</span>
+<span id="cb15-9"><a href="#cb15-9" aria-hidden="true" tabindex="-1"></a>    <span class="at">caption =</span> <span class="st">"Source: Wikipedia '2025 Seattle Mariners season' page"</span></span>
+<span id="cb15-10"><a href="#cb15-10" aria-hidden="true" tabindex="-1"></a>  ) <span class="sc">+</span></span>
+<span id="cb15-11"><a href="#cb15-11" aria-hidden="true" tabindex="-1"></a>  <span class="fu">scale_x_continuous</span>(<span class="at">breaks =</span> <span class="fu">c</span>(<span class="dv">1</span>, <span class="dv">20</span>, <span class="dv">40</span>, <span class="dv">60</span>, <span class="dv">81</span>, <span class="dv">100</span>, <span class="dv">120</span>, <span class="dv">140</span>, <span class="dv">162</span>)) <span class="sc">+</span></span>
+<span id="cb15-12"><a href="#cb15-12" aria-hidden="true" tabindex="-1"></a>  <span class="fu">theme_minimal</span>()</span></code></pre></div><button title="Copy to Clipboard" class="code-copy-button"><i class="bi"></i></button></div>
 <div class="cell-output-display">
 <div>
 <figure class="figure">
@@ -471,6 +502,16 @@ Geodetic CRS:  NAD83
 </div>
 </div>
 </div>
+</section>
+<section id="findings" class="level2">
+<h2 class="anchored" data-anchor-id="findings">Findings</h2>
+<p>Ultimately, the 2025 Mariners’ season was a story of streaks. After an initial slump that dropped them several games below .500, the team rallied with a strong winning streak. The season was characterized by this volatility: a mid-season decline erased their gains and briefly pulled them back down to .500. However, a powerful second-half surge pushed them to a new peak, and despite a late-season setback, they finished with a massive hot streak to end the season at 18 games above .500.</p>
+</section>
+<section id="limitations" class="level2">
+<h2 class="anchored" data-anchor-id="limitations">Limitations</h2>
+<p>The analysis has two primary limitations. First, the data heavily relies on the validity and timeliness of the game log table found on Wikipedia. As a community-edited source, it is not a formal, primary data feed and could contain temporary errors or lag behind official results.</p>
+<p>Second, the scraper itself is technically fragile. It is hard-coded to select specific table indices ([c(2, 3, 4, 5, 6, 7)]) and assumes the team’s record is always in a specific column (X9). If the Wikipedia page’s underlying HTML structure is altered in any way (for example, a new table is added before the record tables), the script will break or pull incorrect data.</p>
+</section>
 </section>
 
 </main>
